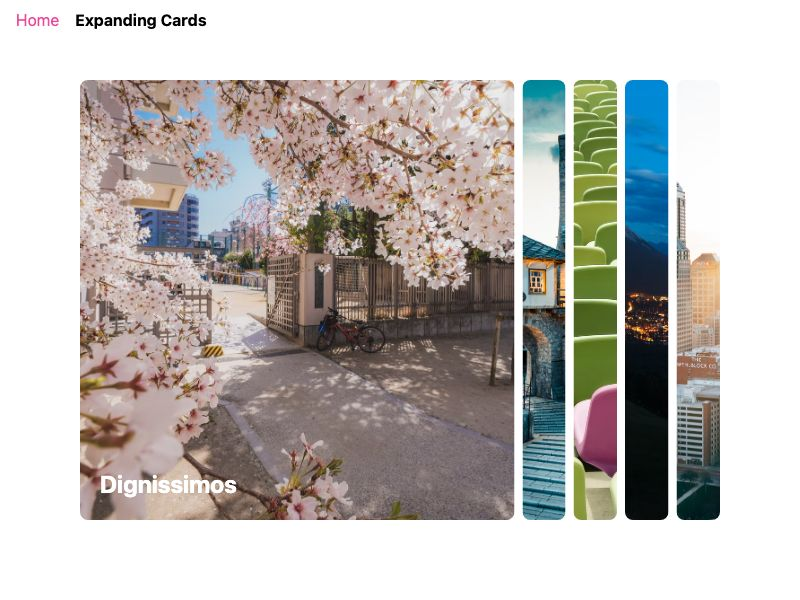
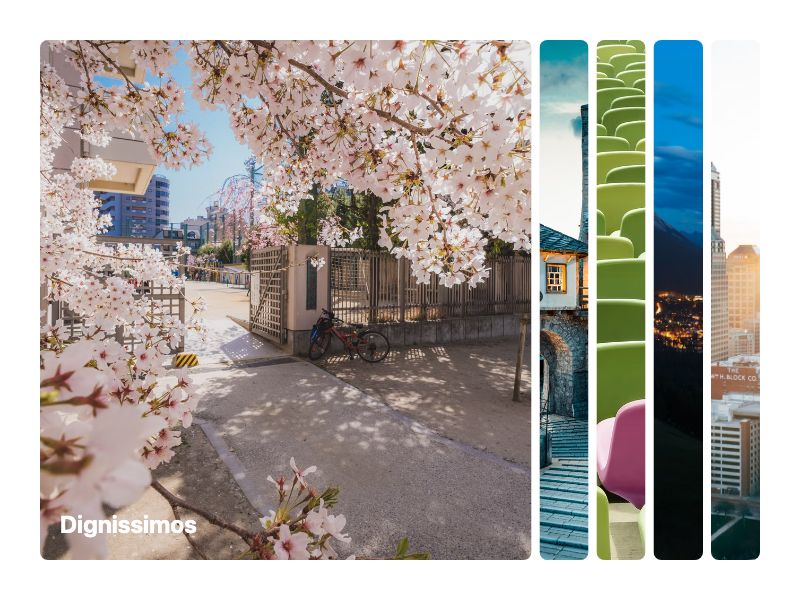
fix: index

diff --git a/pages/index.tsx b/pages/index.tsx
@@ -6,10 +6,11 @@ const Home: NextPage = () => {
   return (
     <div className="min-h-screen py-2">
       <main className="flex w-full flex-1 flex-col items-center justify-center px-20 text-center">
-        <h1 className="text-3xl font-bold py-10">50 PROJECTS 50 DAYS</h1>
-        <div className="grid grid-cols-4 gap-4 w-full">
+        <h1 className="py-10 text-3xl font-bold">50 PROJECTS 50 DAYS</h1>
+        <div className="grid w-full grid-cols-4 gap-4">
           <Project name="expanding-cards" idx={1}></Project>
           <Project name="progress-steps" idx={2}></Project>
+          <Project name="rotating-nav" idx={3}></Project>
         </div>
       </main>
     </div>
@@ -26,16 +27,16 @@ function Project({ name, idx }: IProjectProps) {
 
   return (
     <Link href={`/projects/${name}`}>
-      <div className="relative flex h-60 w-200 cursor-pointer flex-col items-center justify-center border-2 border-gray-200 hover:border-pink-500 transition-colors duration-500 overflow-hidden">
-        <h2 className="flex-1 flex justify-center items-center absolute w-full h-full opacity-0 text-white hover:bg-pink-500 hover:opacity-100 transition-all duration-500 z-30">
+      <div className="w-200 relative flex h-60 cursor-pointer flex-col items-center justify-center overflow-hidden border-2 border-gray-200 transition-colors duration-500 hover:border-pink-500">
+        <h2 className="absolute z-30 flex h-full w-full flex-1 items-center justify-center text-white opacity-0 transition-all duration-500 hover:bg-pink-500 hover:opacity-100">
           {title}
         </h2>
         <img
           src={`img/${name}.jpg`}
           alt=""
-          className="absolute z-10 object-cover w-[400px] h-[320px]"
+          className="absolute z-10 h-[320px] w-[400px] object-contain"
         />
-        <span className="absolute top-0 right-0 bg-pink-500 px-2 pb-1 z-50 text-white">
+        <span className="absolute top-0 right-0 z-50 bg-pink-500 px-2 pb-1 text-white">
           Day {idx}
         </span>
       </div>

diff --git a/scripts/screenshot.js b/scripts/screenshot.js
@@ -29,13 +29,31 @@ function getProjectsName() {
   return projects
 }
 
+function getImagesName() {
+  const src = path.join(__dirname, '../public/img/')
+
+  const images = []
+  const files = fs.readdirSync(src)
+  files.forEach((item, index) => {
+    let stat = fs.lstatSync(src + item)
+    if (stat.isFile() === true) {
+      images.push(item.split('.')[0])
+    }
+  })
+  return images
+}
+
 function genProjectScreenshots() {
   const projects = getProjectsName()
+  const images = getImagesName()
+  const newProjects = projects.filter((item) => !images.includes(item))
+
   const file = path.join(__dirname, `../public/img/`)
   console.log(file)
-  projects.forEach((item) => {
+  newProjects.forEach((item) => {
     screenshot(`http://localhost:3000/projects/${item}`, `${file}${item}.jpg`)
   })
+  console.log(`generating ${newProjects.length} screenshots`)
 }
 
 genProjectScreenshots()
